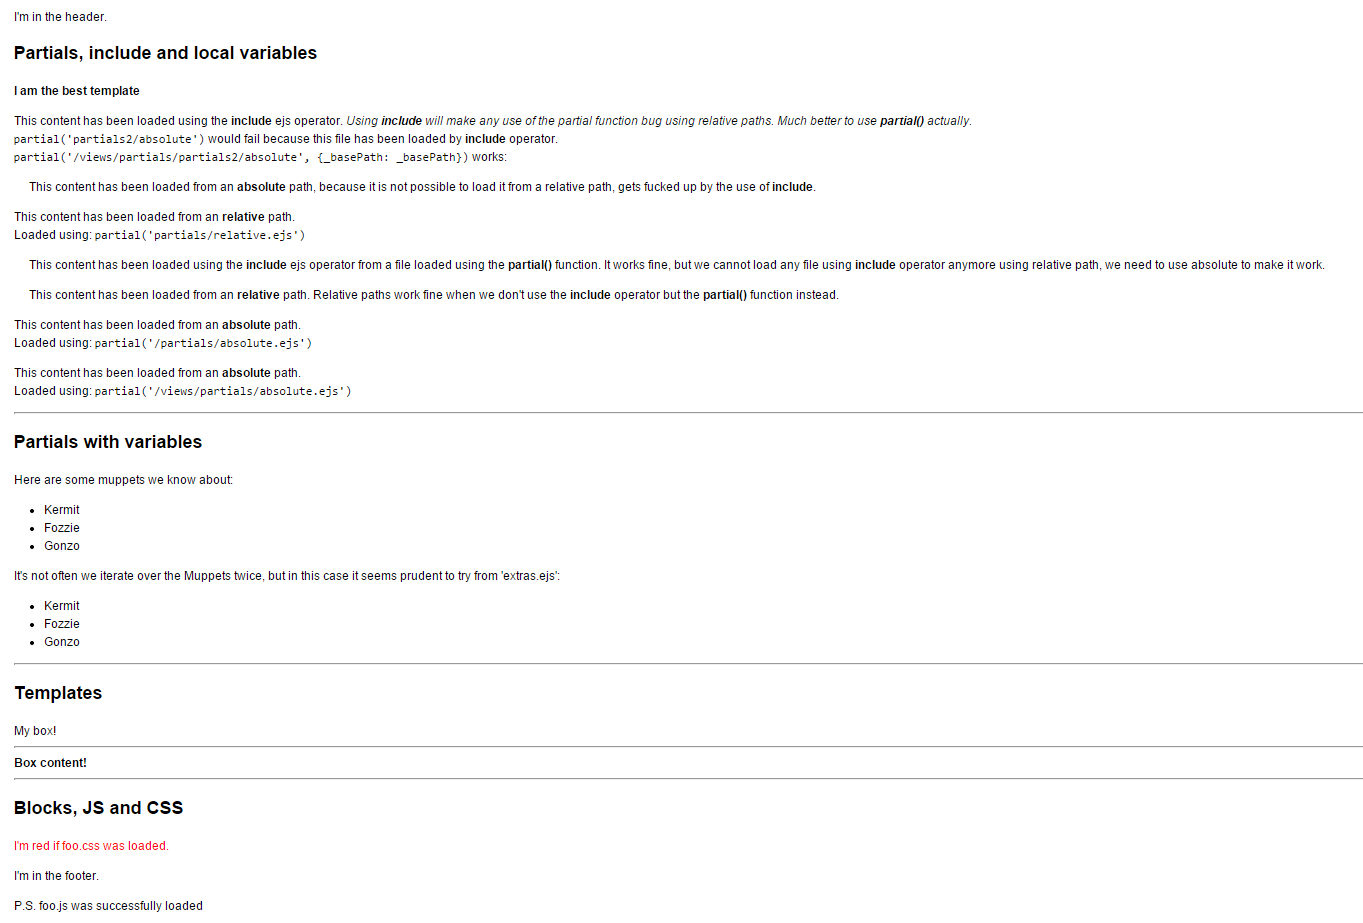
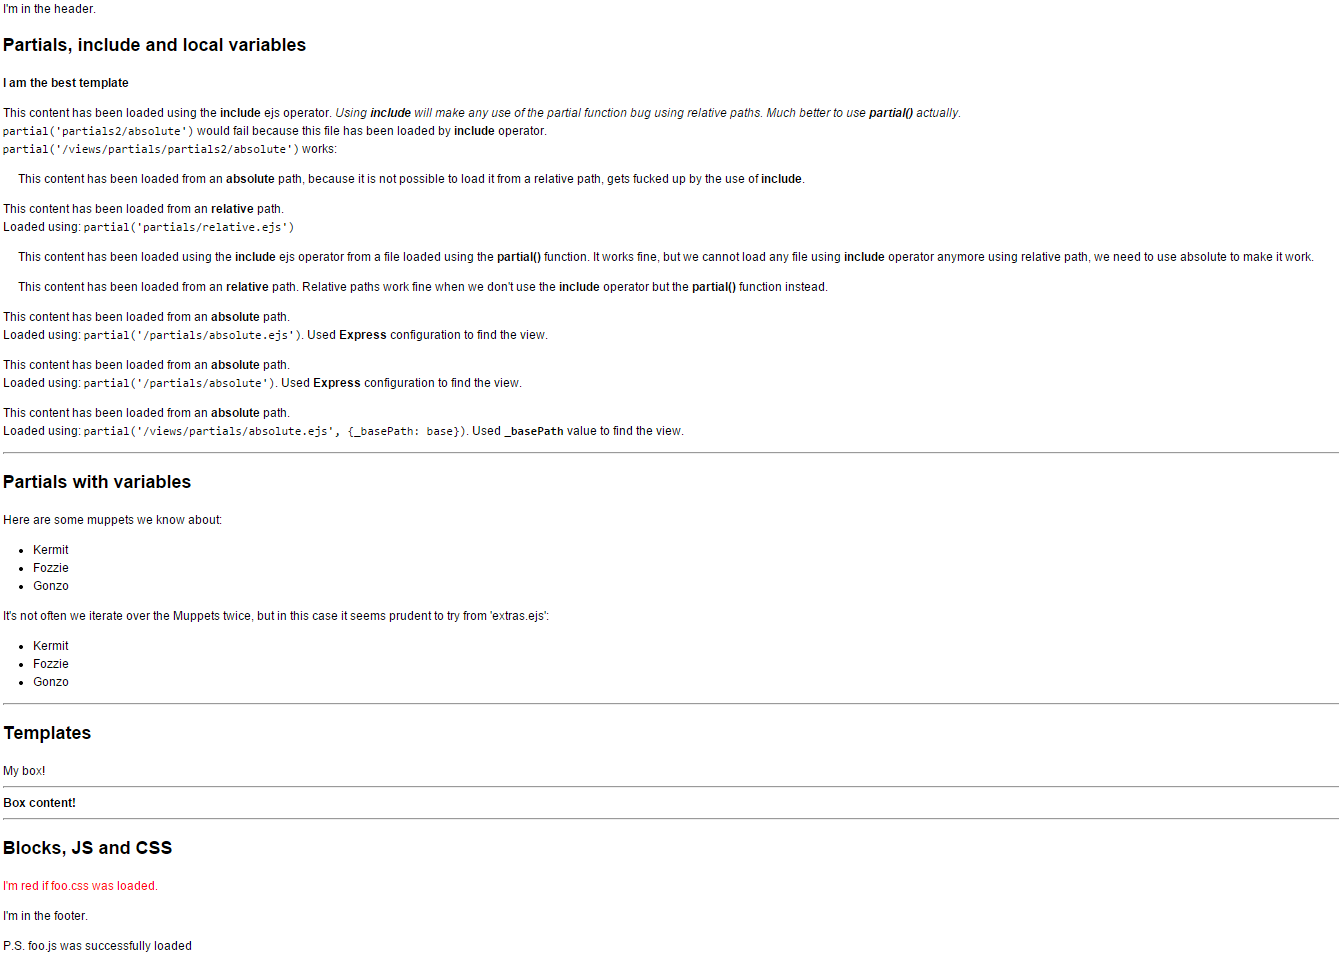
Explain quickly how to properly set up the module, using Express or _basePath. Updated the rendered picture.

Changed region(s): [[0.0, 0.0, 1.0, 1.0]]

diff --git a/README.md b/README.md
@@ -22,8 +22,23 @@ Previously also offered `include` but you should use EJS 0.8.x's own method for 
 
 *(`--save` automatically writes to your `package.json` file, tell your friends)*
 
+### Proper setup
+If you want to use a smart and reusable `absolute path`, here is how **it should be done**.
+
+#### Using Express.js
+This is the smarter solution. Just set the following when setting your `express` application: `app.set('views', __dirname + '/views')` even if I guess that's already done!
+Every use of absolute path (I.e: `partial('/partials/absolute')` will take the `views` folder as root.
+
+#### Without Express.js
+If you're not using Express, then you could set when you're rendering a view the following: `res.render('index', { _basePath: __dirname });`,
+it would be shared across every partial loaded by the view and you would not need to precise the `_basePath` while calling `partial()`.
+
+Of course this can be a *pain in the ass* if you need to change every call to `res.render`, I myself don't,
+I prefer to use the **Express** configuration and when I can't I have a bunch of default values bound in every view dynamically, so I don't even have to think about it.
+
+
 ## Usage
-Run `node app.js` from `examples` and open `localhost:3000` to see a working example.
+Run `node app.js` from `examples` folder and open `localhost:3000` to see a working example.
 
 Given a template, `views/index.ejs`:
 
@@ -40,8 +55,10 @@ Given a template, `views/index.ejs`:
     <!-- Using include will make any use of the partial function bug using relative paths. Much better to use partial actually. -->
     <% include partials/included %>
 
-    <%- partial('partials/relative.ejs') %>
-    <%- partial('/views/partials/absolute.ejs', {_basePath: _basePath}) %>
+    <%- partial('partials/relative', {text: "Loaded using: <code>partial('partials/relative.ejs')</code>"}) %>
+    <%- partial('/partials/absolute.ejs', {text: "Loaded using: <code>partial('/partials/absolute.ejs')</code>. Used <b>Express</b> configuration to find the view."}) %>
+    <%- partial('/partials/absolute', {text: "Loaded using: <code>partial('/partials/absolute')</code>. Used <b>Express</b> configuration to find the view."}) %>
+    <%- partial('/views/partials/absolute.ejs', {text: "Loaded using: <code>partial('/views/partials/absolute.ejs', {_basePath: base})</code>. Used <b><code>_basePath</code></b> value to find the view.", _basePath: base}) %>
 
     <hr/>
     <h1>Partials with variables</h1>
@@ -111,7 +128,8 @@ When rendered by an Express 3.0 app, `app.js`:
 
     // render 'index' into 'boilerplate':
     app.get('/',function(req, res, next){
-      res.render('index', { what: 'best', who: 'me', muppets: [ 'Kermit', 'Fozzie', 'Gonzo' ], _basePath: __dirname });
+      // The fact that we send _basePath from here, it will be bound automatically to each call to `partial`, not useful to specify it again. But possible to override it to set a custom _basePath for a specific call.
+      res.render('index', { what: 'best', who: 'me', muppets: [ 'Kermit', 'Fozzie', 'Gonzo' ], base: __dirname });
     });
 
     /**
@@ -123,96 +141,10 @@ When rendered by an Express 3.0 app, `app.js`:
      * Start the application on a specific port.
      */
     app.listen(3000);
+
 ```
 
 You get the following result: (See [Picture](rendered.png))
-
-```html
-
-    <!DOCTYPE html>
-    <html><script type="text/javascript" src="chrome-extension://kajfghlhfkcocafkcjlajldicbikpgnp/catcher.js"><!-- script injected by Request Maker --></script><head>
-        <title>It's me</title>
-        <script src="/foo.js" type="text/javascript"></script><style type="text/css"></style><style type="text/css"></style>
-        <link rel="stylesheet" href="/foo.css">
-      </head>
-      <body>
-        <header>
-          <p>I'm in the header.</p>
-        </header>
-        <section>
-
-    <h1>Partials, include and local variables</h1>
-
-    <b>I am the best template</b>
-
-    <!-- Using include will make any use of the partial function bug using relative paths. Much better to use partial actually. -->
-    <p>
-        This content has been loaded using the <b>include</b> ejs operator. <i>Using <b>include</b> will make any use of the partial function bug using relative paths. Much better to use <b>partial()</b> actually.</i><br>
-
-        <code>partial('partials2/absolute')</code> would fail because this file has been loaded by <b>include</b> operator.<br>
-        <code>partial('/views/partials/partials2/absolute', {_basePath: _basePath})</code> works:
-
-        </p><p style="margin-left: 20px">
-        This content has been loaded from an <b>absolute</b> path, because it is not possible to load it from a relative path, gets fucked up by the use of <b>include</b>.
-    </p>
-    <p>
-        This content has been loaded from an <b>relative</b> path.
-        </p><p style="margin-left: 20px">
-        This content has been loaded using the <b>include</b> ejs operator from a file loaded using the <b>partial()</b> function.
-        It works fine, but we cannot load any file using <b>include</b> operator anymore using relative path, we need to use absolute to make it work.
-    </p>
-        <p style="margin-left: 20px">
-        This content has been loaded from an <b>relative</b> path. Relative paths work fine when we don't use the <b>include</b> operator but the <b>partial()</b> function instead.
-    </p>
-    <p>
-        This content has been loaded from an <b>absolute</b> path.
-    </p>
-
-    <hr>
-    <h1>Partials with variables</h1>
-
-        <p>Here are some muppets we know about:
-            </p><ul>
-                <li>Kermit</li><li>Fozzie</li><li>Gonzo</li>
-            </ul>
-        <p></p>
-
-        <p>
-            It's not often we iterate over the Muppets twice, but in this case it seems prudent to try from 'extras.ejs':
-
-            </p>
-                <ul>
-                    <li>Kermit</li><li>Fozzie</li><li>Gonzo</li>
-                </ul>
-            <p>
-        </p>
-
-    <hr>
-    <h1>Templates</h1>
-
-        <div id="box_" class="box">
-
-                <div class="header">
-                        <span class="title">My box!</span>
-                    <hr>
-                </div>
-
-            <div class="content">
-                <div><b>Box content!</b></div>
-            </div>
-        </div>
-
-    <hr>
-    <h1>Blocks, JS and CSS</h1>
-
-        <p class="better-than-dead">I'm red if foo.css was loaded.</p>    </section>
-            <footer>
-              <p>I'm in the footer.</p>
-            </footer>
-
-        <p>P.S. foo.js was successfully loaded</p></body></html>
-```
-Note, if you haven't seen it before, this example uses trailing dashes in the EJS includes to slurp trailing whitespace and generate cleaner HTML. It's not strictly necessary.
 
 
 ## Features
